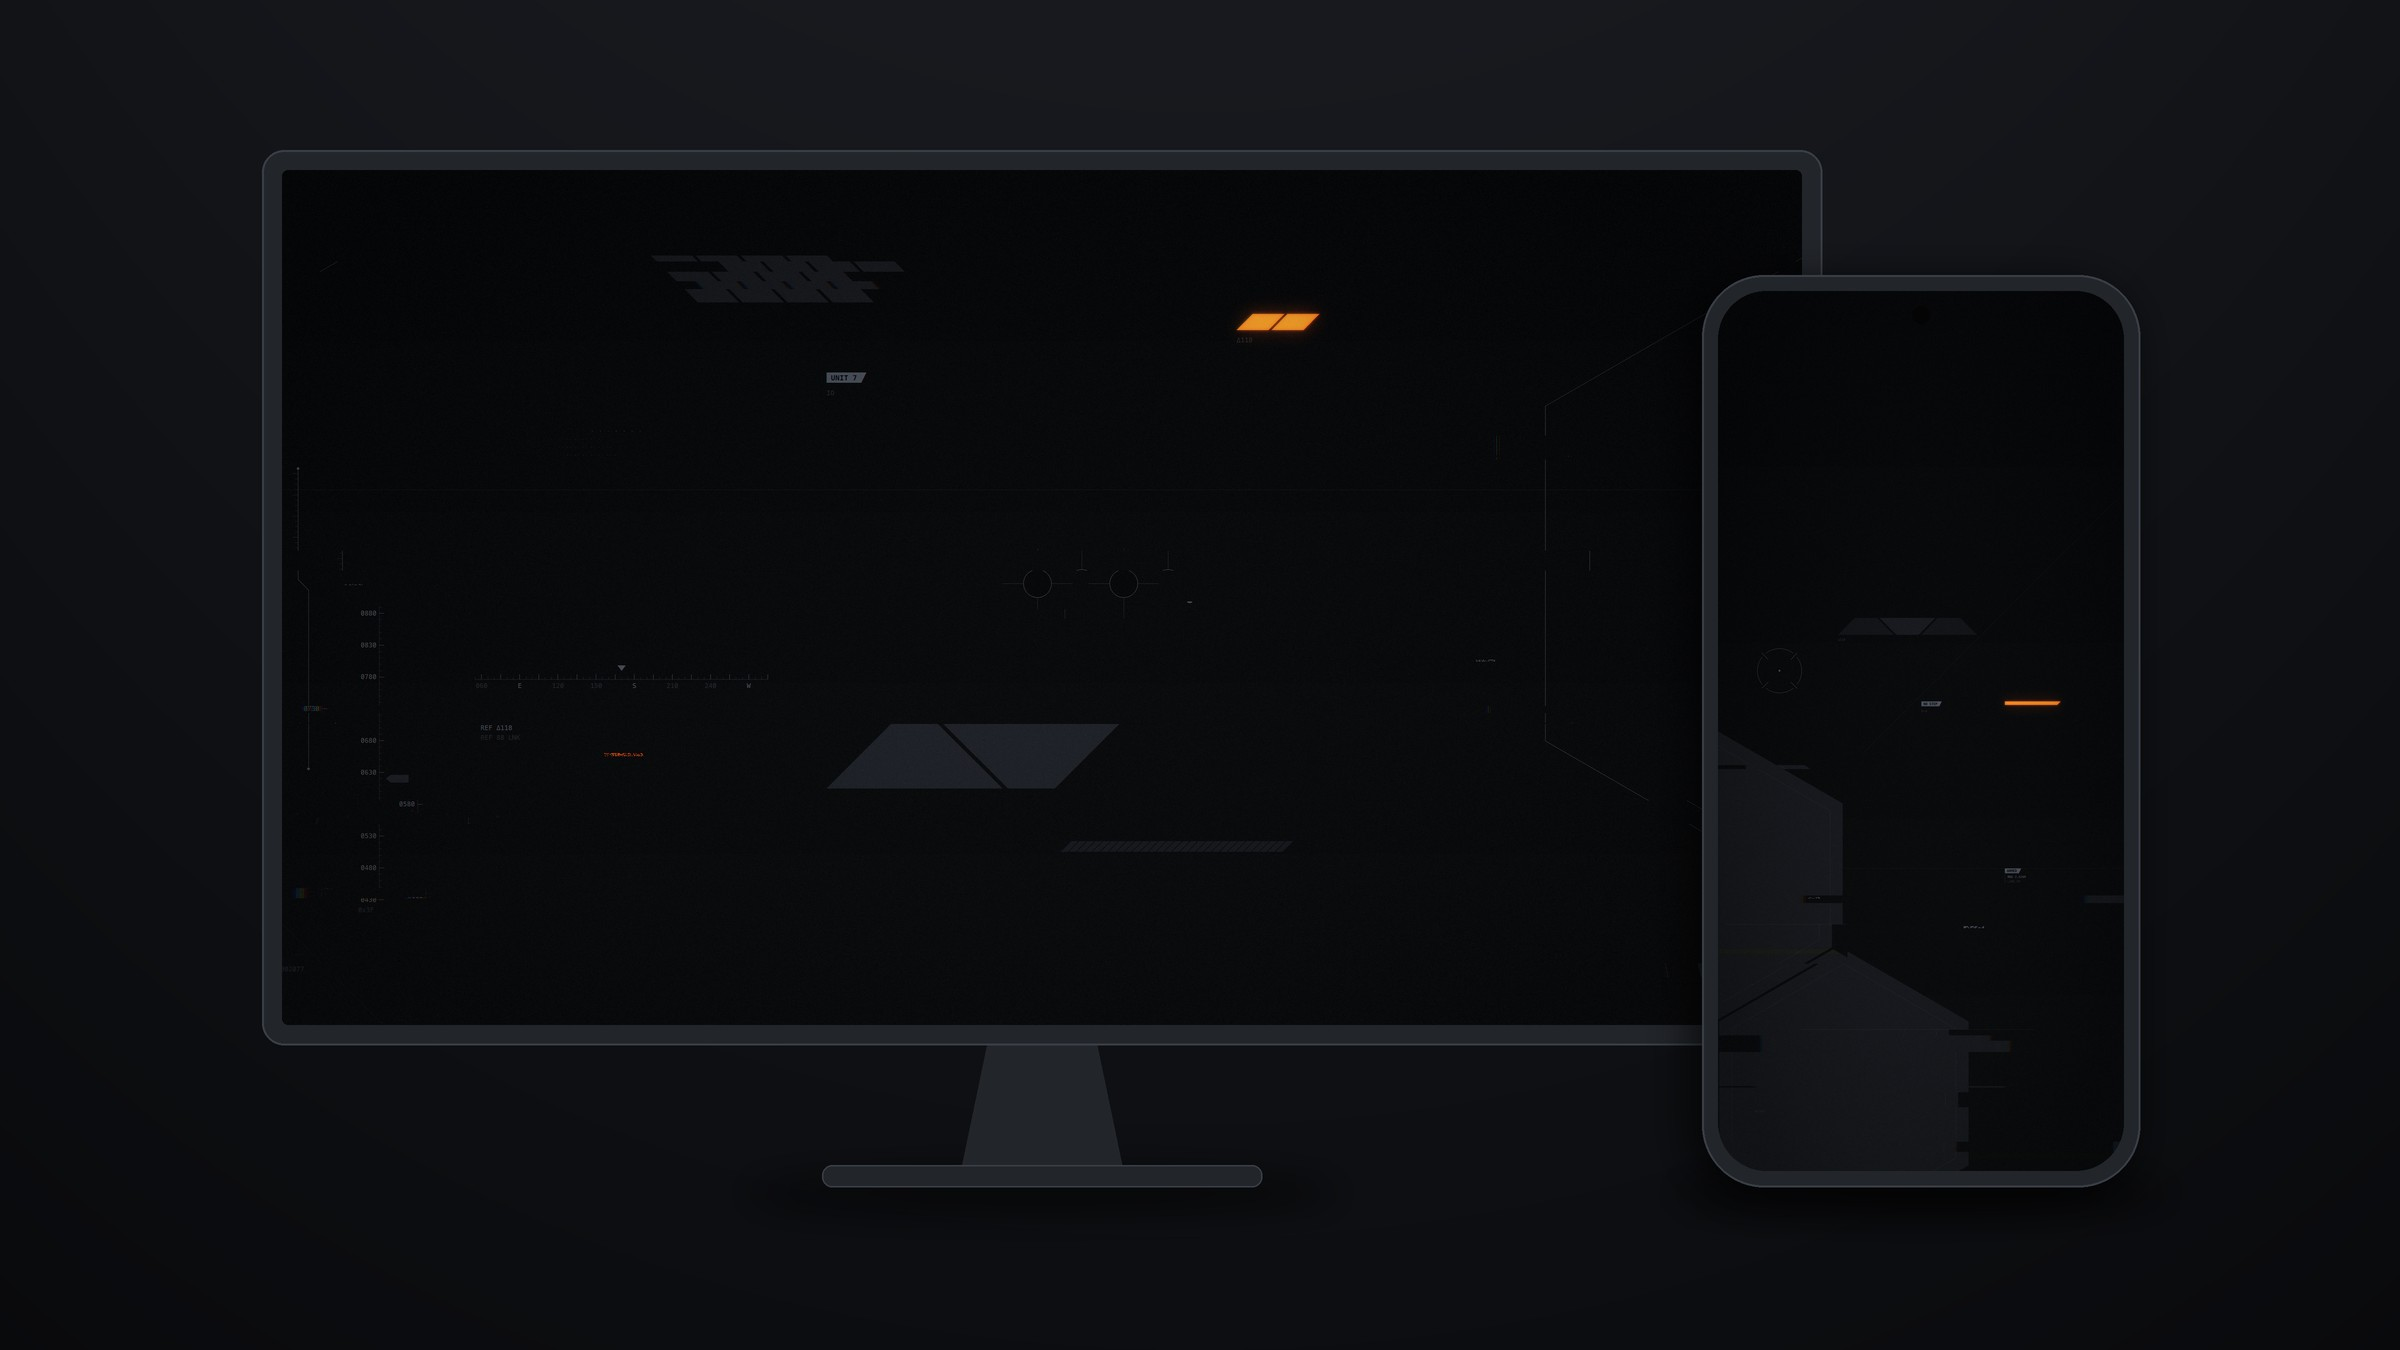
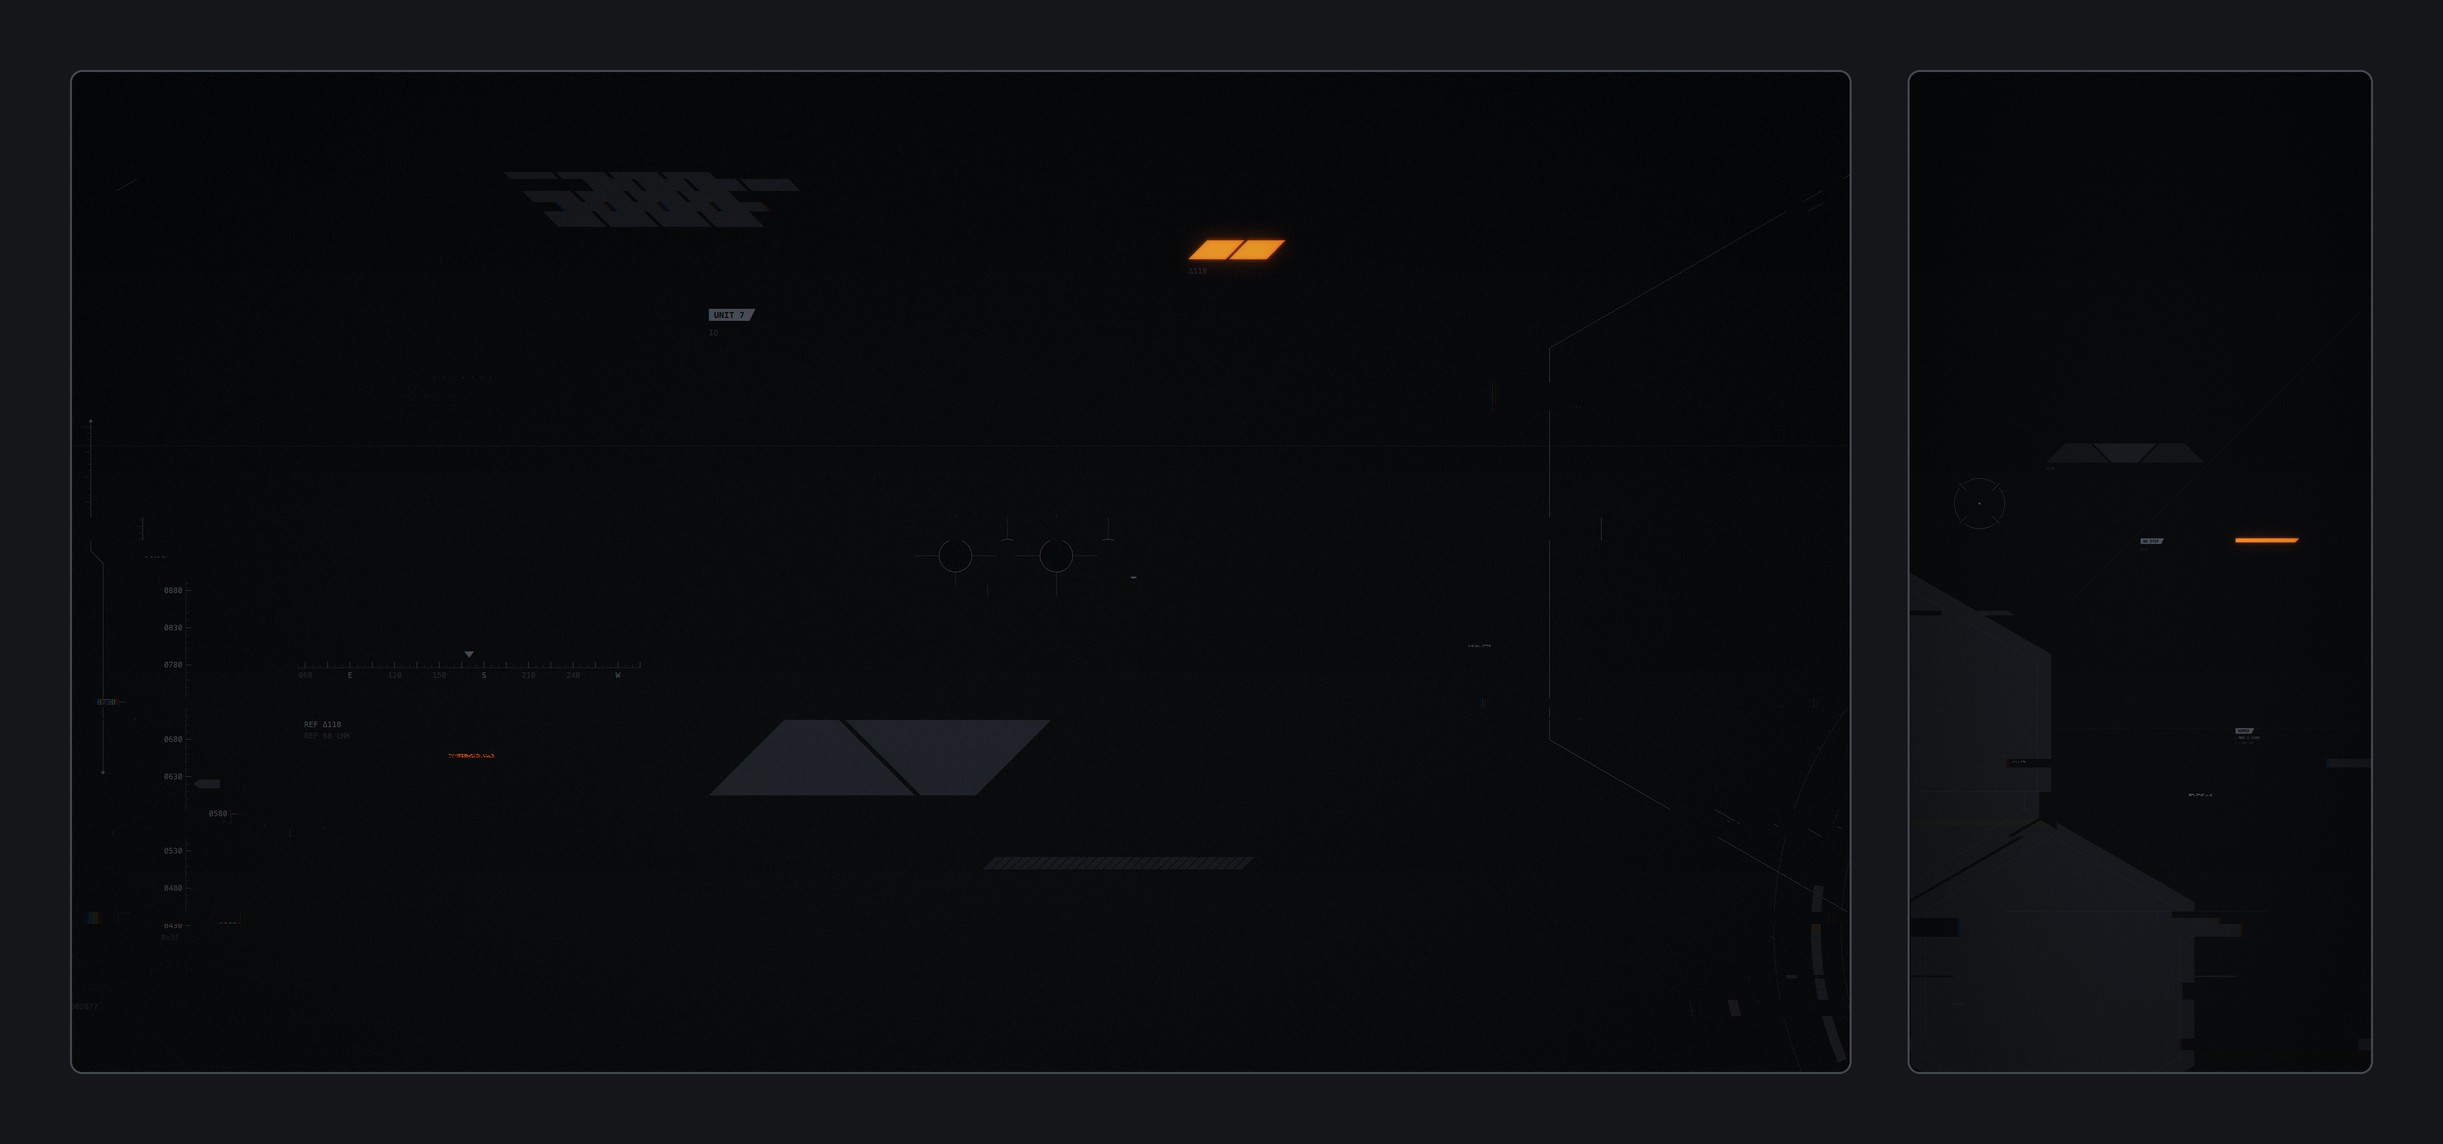
Show README examples side by side without device mockups

diff --git a/README.md b/README.md
@@ -2,7 +2,7 @@
 
 Minimal, dark, glitchy cyberpunk wallpapers for phone and desktop, made with Python.
 
-![Desktop wallpaper (seed 2077) and phone wallpaper (seed 1001) on device mockups](examples/preview.jpg)
+![Desktop wallpaper (seed 2077) and phone wallpaper (seed 1001)](examples/preview.jpg)
 
 ## Install
 
